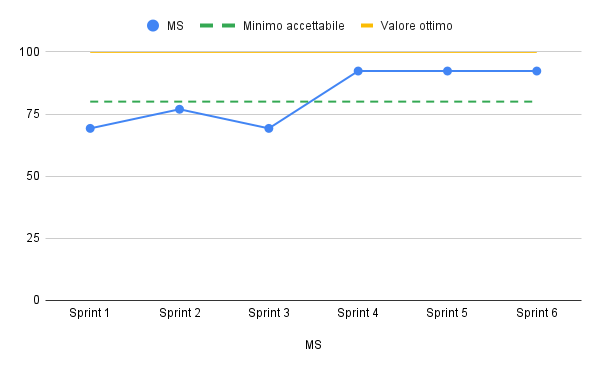
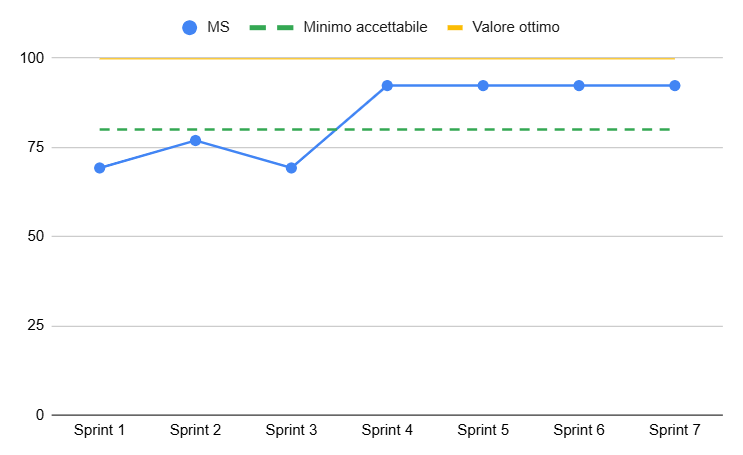
change: aggiornati grafici

diff --git a/Docs/Generali/piano_di_qualifica/05_resoconto.tex b/Docs/Generali/piano_di_qualifica/05_resoconto.tex
@@ -1,7 +1,7 @@
 \newcommand{\Met}[3]{
     \subsubsection{#1}
     \begin{figure}[h!] \centering
-        \includegraphics[scale=0.55]{#2}
+        \includegraphics[scale=0.75]{#2}
         \caption{Proiezione della#1nei vari periodi di progetto}
     \end{figure}
     \subsubsection*{RTB}
